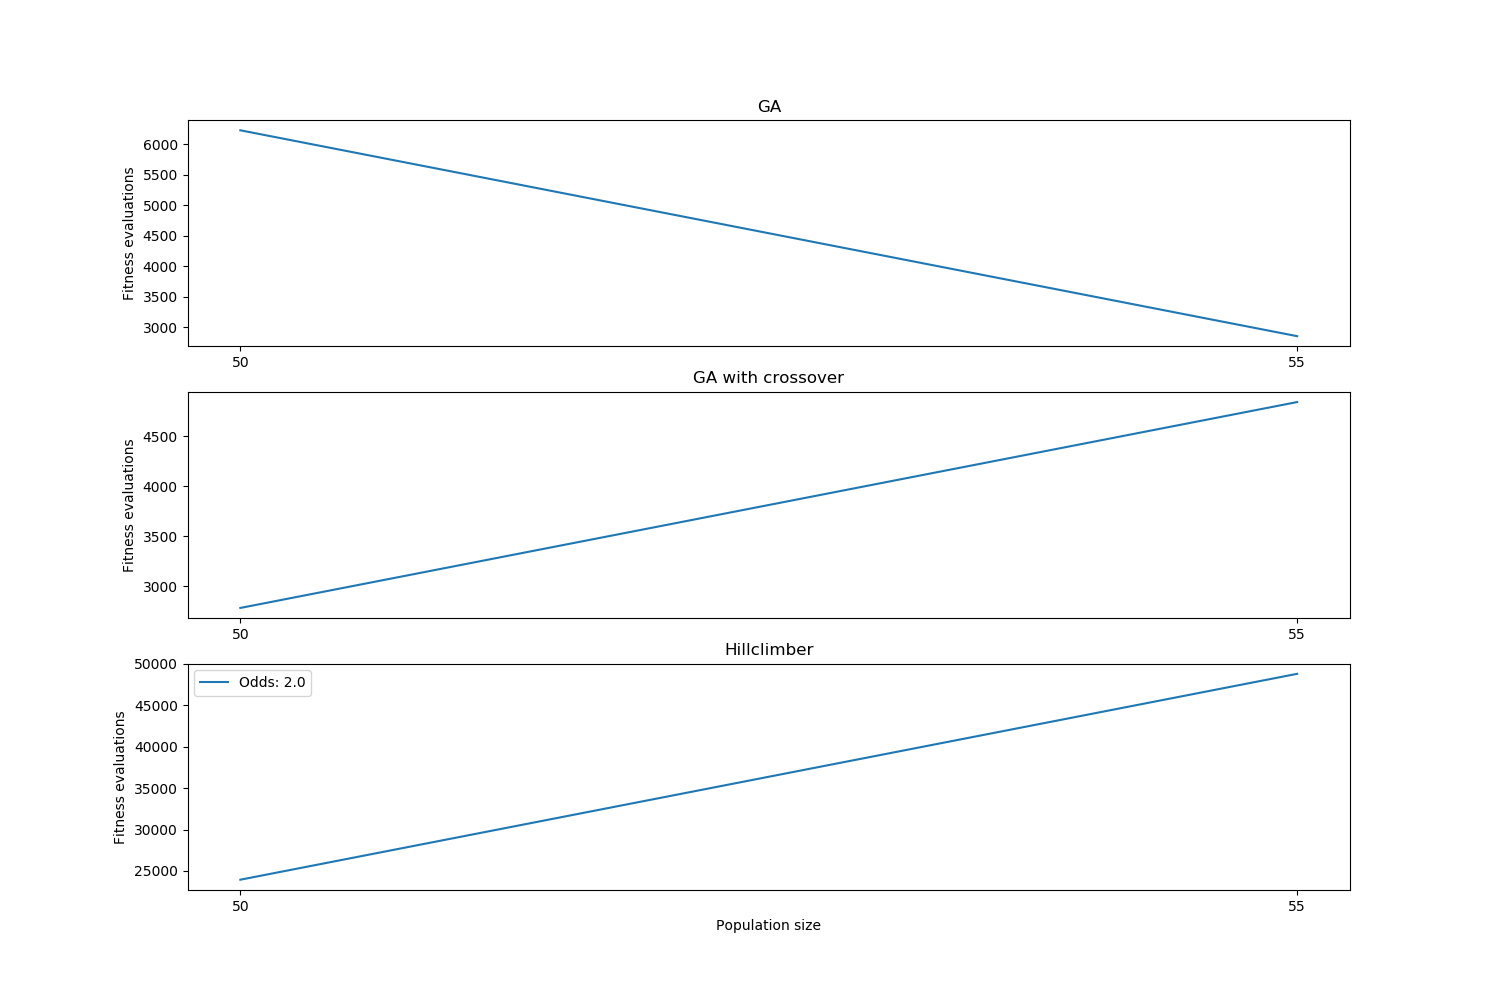
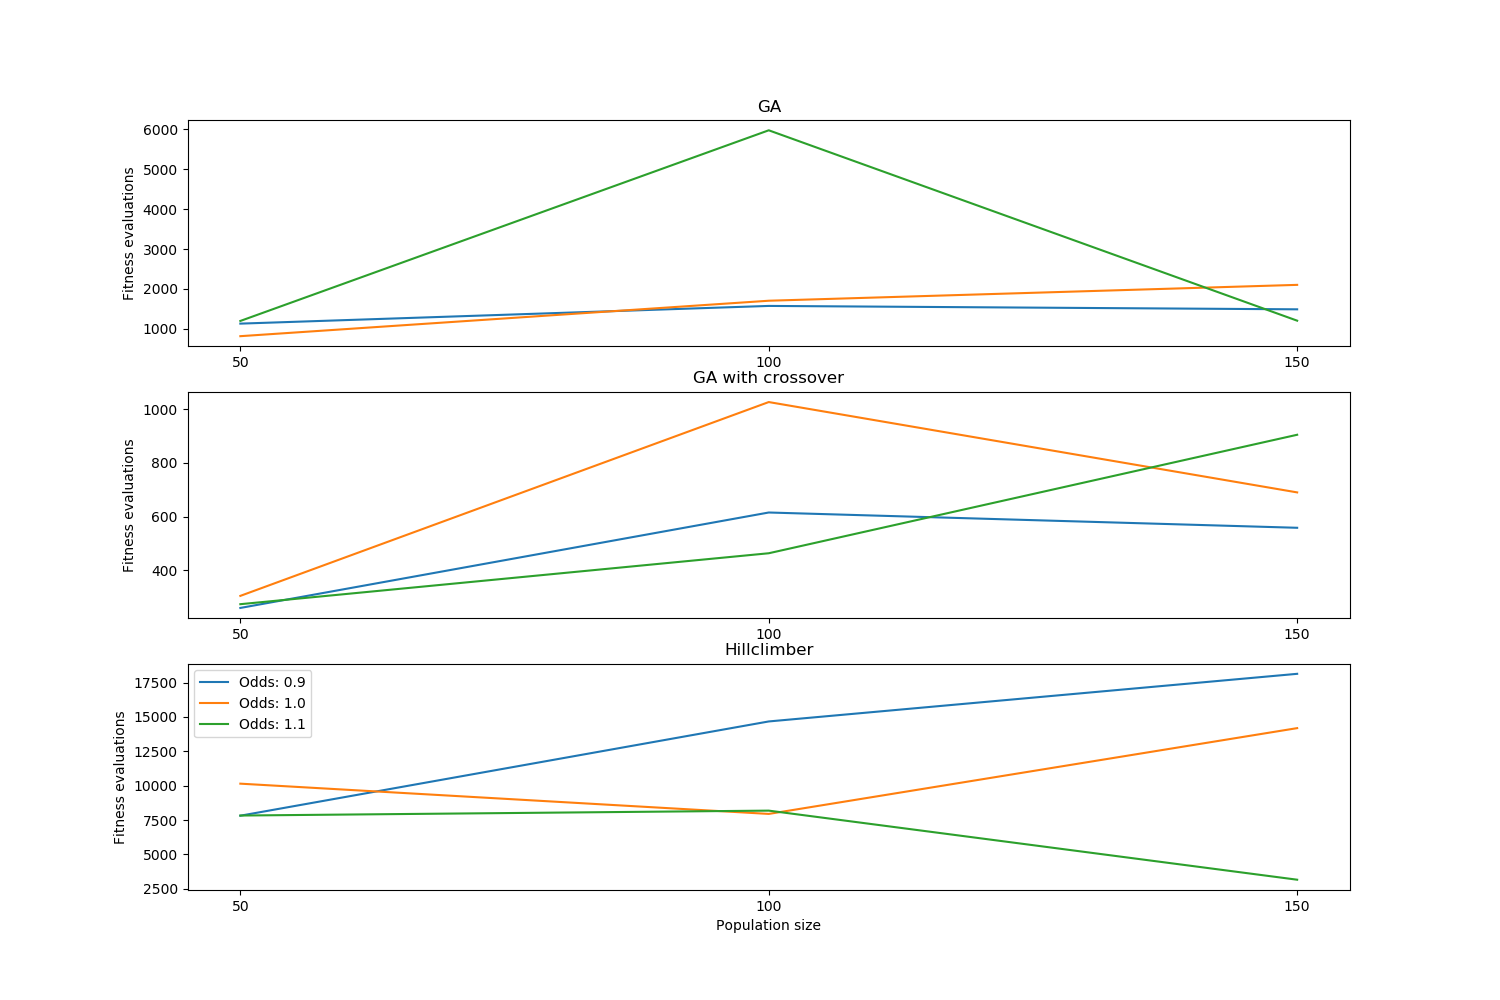
ALl working now

diff --git a/methinks v4.py b/methinks v4.py
@@ -9,15 +9,12 @@ import pandas as pd
 import string
 import random
 import matplotlib as mpl    # Required to make graph plot from CLI along - see below 
-mpl.use('tkagg')            # From: https://github.com/matplotlib/matplotlib/issues/18953 
+mpl.use('tkagg')            # From: https://github.com/matplotlib/matplotlib/issues/18953 - to make plot work 
 import matplotlib.pyplot as plt
 
 # Global variables
-GOAL = False    # Set goal state to false 
-EVALUATION = 0  # Zero the fitness evaluation counter
-ODDS = 1        # Set odds mulitplier to 1 *(1/length of target string)
-np.random.seed()    # Initialise random seed
-
+EVALUATION, ODDS, GOAL = 0, 1, False
+np.random.seed()   
 
 # Return a random [ascii + ' '] char
 def random_char():
@@ -44,34 +41,33 @@ def make_frame(population_size, target):
     return pd.DataFrame(make_population(population_size, target), index = make_labels(population_size))
 
 
-# Goal check
-def goal_check(fitness, target, string_index, candidate):
-    if fitness == len(target):
-        print("\n   Goal: String", string_index, "wins!")
-        return True
-    else:
+# Check if fitness has reached the target length
+def goal_check(fitness, target, string_index):
+    
+    if fitness != len(target):
         return False
+    else:
+        print('\n   Goal: String', string_index, 'wins!')
+        return True
 
 
+# Compare strings - if identical set Goal=true - return fitness as int
 def fitness_test(candidate, target, string_index):
-    # Compare strings - if identical set Goal=true - return fitness as int
-    global EVALUATION
-    global GOAL
     
-    fitness = sum(candidate[i]==target[i] for i in range(len(target))) # Count identical elements of arrays
-    EVALUATION += 1   # Count number of fitness evaluations
-    
-    print('   Fitness evaluations: %d' % EVALUATION, end='\r', flush=True)
-    GOAL = goal_check(fitness, target, string_index, candidate) # Check goal condition
+    global EVALUATION, GOAL
+    EVALUATION += 1
+    print('   Fitness evaluations:'+str(EVALUATION), end='\r', flush=True)
+    # Count identical elements of arrays
+    fitness = sum(candidate[i] == target[i] for i in range(len(target)))
+    GOAL = goal_check(fitness, target, string_index) 
     
     return fitness
 
 
+# Group fitness - test fitness of each string and return frame with fitness values
 def group_fitness_test(population, population_size, target):
-    # Group fitness - test fitness of each string and return frame with fitness values
     fitness_array = [fitness_test(population.iloc[i], target, i) for i in range(population_size)]
-    
-    return pd.DataFrame(fitness_array, index = make_labels(population_size), columns = ["Fitness"])
+    return pd.DataFrame(fitness_array, index = make_labels(population_size), columns = ['Fitness'])
 
 
 # Mutate letters in string with probability 1/target string length
@@ -79,52 +75,42 @@ def mutate(individual, target):
     return [random_char() if random.random() < ODDS**-1 else individual[i] for i in range(len(target))]
 
 
-def hillclimber(group, fitness, population_size, target):
-    # Hill climber - mutate each individual and replace if mutant fitter than parent
-    global GOAL
+# Hill climber - mutate each individual and replace if mutant fitter than parent
+def hillclimb(group, fitness, population_size, target):
     
     for i in range(population_size):
-        
-        mutant = mutate(group.iloc[i], target) # Mutate ith member of group
-        mutant_fitness = fitness_test(mutant, target, i) # Test fitness of ith member of group
-        
+        mutant = mutate(group.iloc[i], target)
+        mutant_fitness = fitness_test(mutant, target, i)
         # Replace parent with mutant if fitness greater than stored value of parent fitness
-        if  mutant_fitness >= fitness.iloc[i]['Fitness'] :
+        if  mutant_fitness >= fitness.iloc[i]['Fitness']:
             group.iloc[i] = mutant
             fitness.iloc[i] = mutant_fitness
-            
-        if GOAL == True: return group, fitness # Check goal condition and return if true
-
+        if GOAL is True: return group, fitness
+        
     return group, fitness
 
 
+# GA with no crossover - select fittest of two random parents and mutate, replace least fit of two other randoms
 def ga_no_cross(group, fitness, population_size, target):
-    # GA with no crossover - select fittest of two random parents and mutate, replace least fit of two other randoms
-    # Make four random ints
-    random1 = np.random.randint(0,population_size)
-    random2 = np.random.randint(0,population_size)
-    random3 = np.random.randint(0,population_size)
-    random4 = np.random.randint(0,population_size)
-   
-    # Select two random parents
-    parent1 = group.iloc[random1]
-    parent2 = group.iloc[random2]
     
-    # Compare fitness values for parents and mutate the fittest
-    if fitness.iloc[random1]['Fitness'] > fitness.iloc[random2]['Fitness'] :
-        mutant = mutate(parent1, target)
-        mutant_fitness = fitness_test(mutant, target, random1)
+    randoms = [np.random.randint(0, population_size) for i in range(4)]  # Make array of four random ints
+    parents = [group.iloc[randoms[i]] for i in range(2)]                # Select two random parents
+    
+    # Mutate the fittest parent 
+    if fitness.iloc[randoms[0]]['Fitness'] > fitness.iloc[randoms[1]]['Fitness']:
+        mutant = mutate(parents[0], target)
+        mutant_fitness = fitness_test(mutant, target, randoms[0])
     else:
-        mutant = mutate(parent2, target)
-        mutant_fitness = fitness_test(mutant, target, random2)
+        mutant = mutate(parents[1], target)
+        mutant_fitness = fitness_test(mutant, target, randoms[1])
     
-    # Compare two other random individuals and replace the least fit with the mutant
-    if  fitness.iloc[random3]['Fitness'] < fitness.iloc[random4]['Fitness'] :
-        group.iloc[random3] = mutant
-        fitness.iloc[random3] = mutant_fitness
+    # Replace the least fit of two random individuals with the mutant
+    if  fitness.iloc[randoms[2]]['Fitness'] < fitness.iloc[randoms[3]]['Fitness']:
+        group.iloc[randoms[2]] = mutant
+        fitness.iloc[randoms[2]] = mutant_fitness
     else: 
-        group.iloc[random4] = mutant
-        fitness.iloc[random4] = mutant_fitness
+        group.iloc[randoms[3]] = mutant
+        fitness.iloc[randoms[3]] = mutant_fitness
     
     return group, fitness
 
@@ -134,123 +120,107 @@ def crossover(parent1, parent2):
     return [parent1[i] if random.random() < 0.5 else parent2[i] for i in range(len(parent1))]
 
 
+# GA with crossover
 def ga_with_cross(group, fitness, population_size, target):
-    # GA with crossover
-    # Make six random ints
-    random1 = np.random.randint(0,population_size)
-    random2 = np.random.randint(0,population_size)
-    random3 = np.random.randint(0,population_size)
-    random4 = np.random.randint(0,population_size)
-    random5 = np.random.randint(0,population_size)
-    random6 = np.random.randint(0,population_size)
+
+    randoms = [np.random.randint(0, population_size) for i in range(6)]  # Make array of six random ints
+    parents = [group.iloc[randoms[i]] for i in range(4)]                # Select four random parents
     
-    # Select four random parents
-    parent1 = group.iloc[random1]
-    parent2 = group.iloc[random2]
-    parent3 = group.iloc[random3]
-    parent4 = group.iloc[random4]
-    
-    # Compare fitness values for parents and chose the fittest
-    if fitness.iloc[random1]['Fitness'] > fitness.iloc[random2]['Fitness'] :
-        chosen_parent1 = parent1
+    # Select fittest two parents from two pairs of parents
+    if fitness.iloc[randoms[0]]['Fitness'] > fitness.iloc[randoms[1]]['Fitness']:
+        chosen_parent_1 = parents[0]
     else:
-        chosen_parent1 = parent2
+        chosen_parent_1 = parents[1]
     
-    # Compare fitness values for parents and chose the fittest
-    if fitness.iloc[random3]['Fitness'] > fitness.iloc[random4]['Fitness'] :
-        chosen_parent2 = parent3
+    if fitness.iloc[randoms[2]]['Fitness'] > fitness.iloc[randoms[3]]['Fitness']:
+        chosen_parent_2 = parents[2]
     else:
-        chosen_parent2 = parent4
+        chosen_parent_2 = parents[3]
     
-    # Make child using crossover and mutate 
-    child = crossover(chosen_parent1, chosen_parent2)
-    mutant_child = mutate(child, target)
+    # Mutate crossover to make mutant child of two parents
+    mutant_child = mutate(crossover(chosen_parent_1, chosen_parent_2), target)
     
-    # Compare two other random individuals, replace the least fit with mutant child and update fitness array
-    if  fitness.iloc[random5]['Fitness'] < fitness.iloc[random6]['Fitness'] :
-        group.iloc[random5] = mutant_child
-        fitness.iloc[random5] = fitness_test(mutant_child, target, random5)
+    # Replace least fit of randomly selected pair with mutant child and its fitness
+    if  fitness.iloc[randoms[4]]['Fitness'] < fitness.iloc[randoms[5]]['Fitness']:
+        group.iloc[randoms[4]] = mutant_child
+        fitness.iloc[randoms[4]] = fitness_test(mutant_child, target, randoms[4])
     else: 
-        group.iloc[random6] = mutant_child
-        fitness.iloc[random6] = fitness_test(mutant_child, target, random6)
+        group.iloc[randoms[5]] = mutant_child
+        fitness.iloc[randoms[5]] = fitness_test(mutant_child, target, randoms[5])
     
     return group, fitness
 
 
+# Return new random population and test group fitness
 def initialise(population_size, target):
-    # Initialise new random population and test group fitness
-    new_group = make_frame(population_size, target) # Make new random population
-    initial_fitness = group_fitness_test(new_group, population_size, target) # Test fitness of group
-    
+    new_group = make_frame(population_size, target)
+    initial_fitness = group_fitness_test(new_group, population_size, target)
     return new_group, initial_fitness
 
 
+# Iterate until GOAL fitness condition or counter limit is satisfied
 def evolve(method, population_size, target):
-    # Iterate until GOAL fitness condition or counter limit is satisfied
-    global EVALUATION 
-    global GOAL
+     
+    global EVALUATION, GOAL
+    EVALUATION, GOAL = 0, False
     
-    # Initialise variables
-    EVALUATION = generation = 0
-    GOAL = False # Set GOAL state false
-    np.random.seed() # Seed pseudorandom number - needed?
-    
-    # Initialise new group and initial fitness
     group, fitness = initialise(population_size, target)
 
-    while GOAL == False:
- 
+    while GOAL is False:
         if method == 'Hillclimber':
-            group, fitness = hillclimber(group, fitness, population_size, target)
+            group, fitness = hillclimb(group, fitness, population_size, target)
         elif method == 'GA':
             group, fitness = ga_no_cross(group, fitness, population_size, target)
         elif method == 'GA with crossover':
             group, fitness = ga_with_cross(group, fitness, population_size, target)
         else:
             break
-            
-        #generation += 1  # Generation counter - needed?
     
-    return EVALUATION   # or return generation
+    return EVALUATION
 
 
+# Loop for each method and odds - call evolve function (average samples) - returns a 2D matrix
 def run_average(population_size, target, runs, step, average_no, odds_array, methods):
-    # Loop for each method and odds - call evolve function  - returns a 2D matrix
+        
     global ODDS
-   
-    run_averages = [[0 for i in range(len(odds_array))] for j in range(len(methods))]  # Make array of correct dimensions
+    run_averages = [[0 for x in odds_array] for y in methods]
     
-    print('Population size:', population_size)
-    
-    # Loop through methods and odds
     for i, method in enumerate(methods):
         print(' Method:', method)
         for j, odds in enumerate(odds_array):
-            
-            ODDS = odds*len(target)
             print('  Mutation odds:', odds)
-            # Average each evolve run at same: odds, pop size, method
-            run_averages[i][j] = round(sum(evolve(method, population_size, target) for k in range(average_no))/ average_no)
+            samples = []
+            ODDS = odds*len(target)
+            
+            for k in range(average_no):
+                samples.append(evolve(method, population_size, target))
+            run_averages[i][j] = round(sum(samples) / average_no)
             
     return run_averages
 
 
 def main():
+
     # Collect 3D array of data varying population size, number of samples per average and odds
-    methods = ['GA', 'GA with crossover','Hillclimber'] # Methods of finding target - predefined
-    # Get user input for each run from CLI
+    methods = ['GA', 'GA with crossover', 'Hillclimber']
+
+    # Get user input from CLI
     population_size = int(input('Please enter population start size: '))
     runs = int(input('Please enter number of runs: '))
     step = int(input('Please enter population increment size: '))
-    average_no = int(input('Please enter number of averages: ')) # Number of identical tests to average
-    # Odds values for mutation More or less likely relative to 1/target length
-    str_arr = input('Mutation odds array (space seperated): ').split(' ') # will take in a string of numbers separated by a space
+    average_no = int(input('Please enter number of averages: '))
+    # Odds values for mutation - More or less likely relative to 1/target length
+    str_arr = input('Mutation odds array (space seperated): ').split(' ')
     odds_array = [float(num) for num in str_arr]
-    target = input('Please enter target: ') # Target can be adjusted here
+    target = input('Please enter target: ')
 
+    data = []
     print('Averages:', average_no, ' Runs:', runs, ' Step:', step,  ' Target:', target)
     # Vary the population size and collect in an array
-    data = [run_average(population_size + i, target, runs, step, average_no, odds_array, methods) for i in range(0, runs*step, step)]
+    for i in range(0, runs*step, step):
+        print('Population size:', population_size + i)
+        data.append(run_average(population_size + i, target, runs, step, average_no, odds_array, methods))
+
     # Make labels for frame and graph
     population_labels = [str(population_size + i) for i in range(0, runs*step, step)] 
     
@@ -268,7 +238,7 @@ def main():
     # Format graph
     plt.setp(axs[:], ylabel='Fitness evaluations') #set identical y axis labels
     plt.setp(axs[len(methods) - 1], xlabel='Population size') #set common x axis label
-    ax.legend(['Odds: '+str(odds) for odds in odds_array]) # set legend for odds
+    ax.legend(['Odds: '+str(odds) for odds in odds_array]) 
     plt.savefig("test.png")
     plt.show()
 
